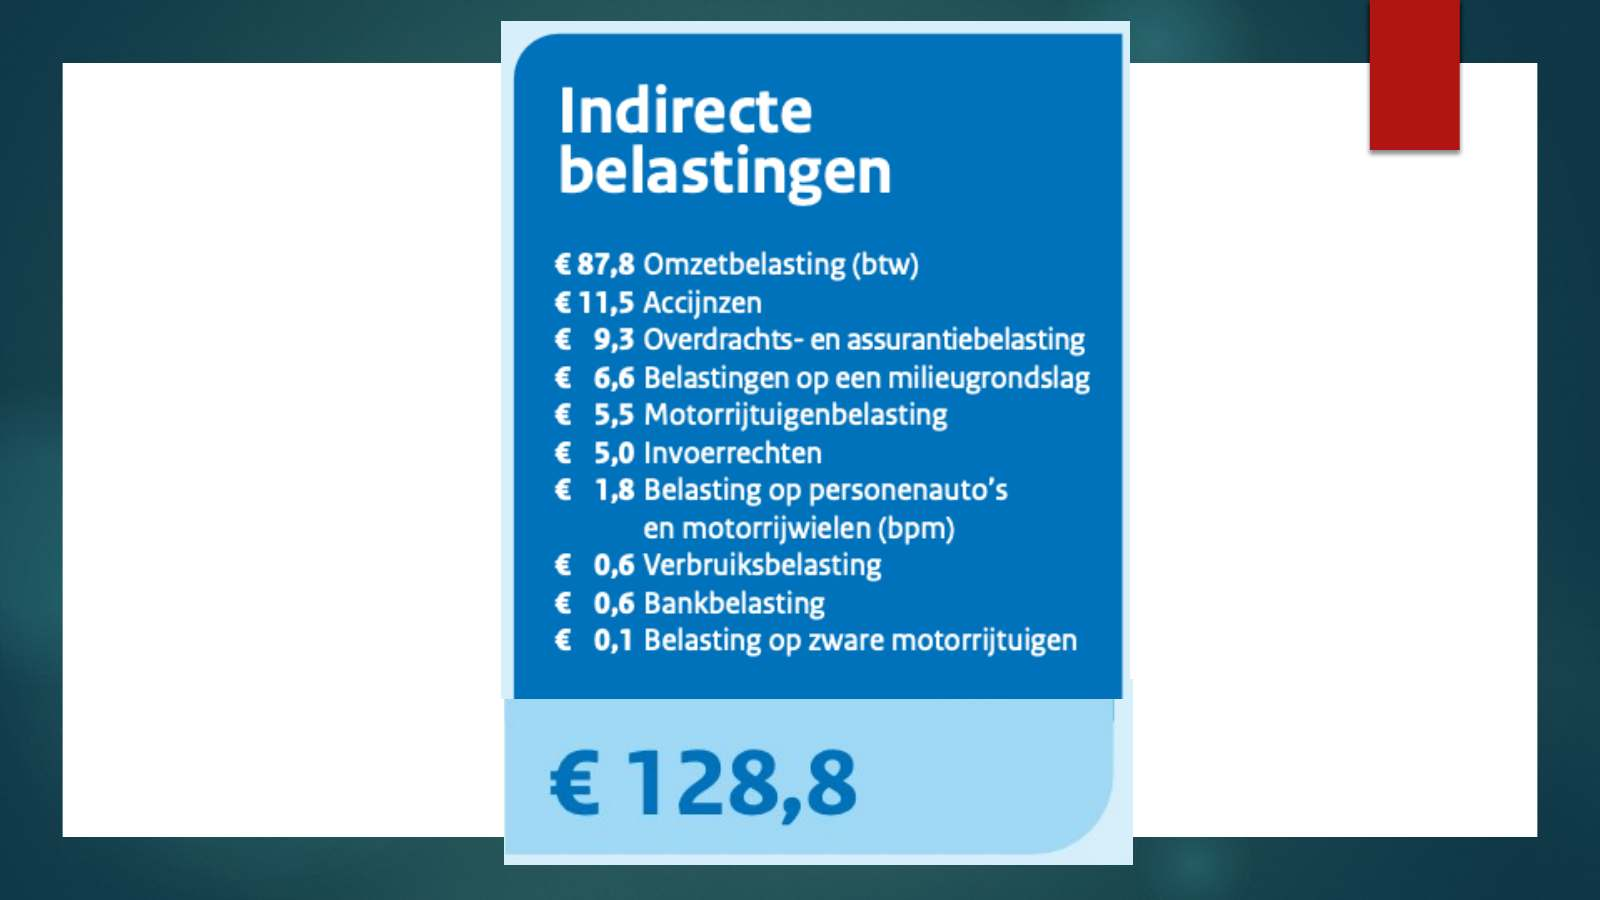
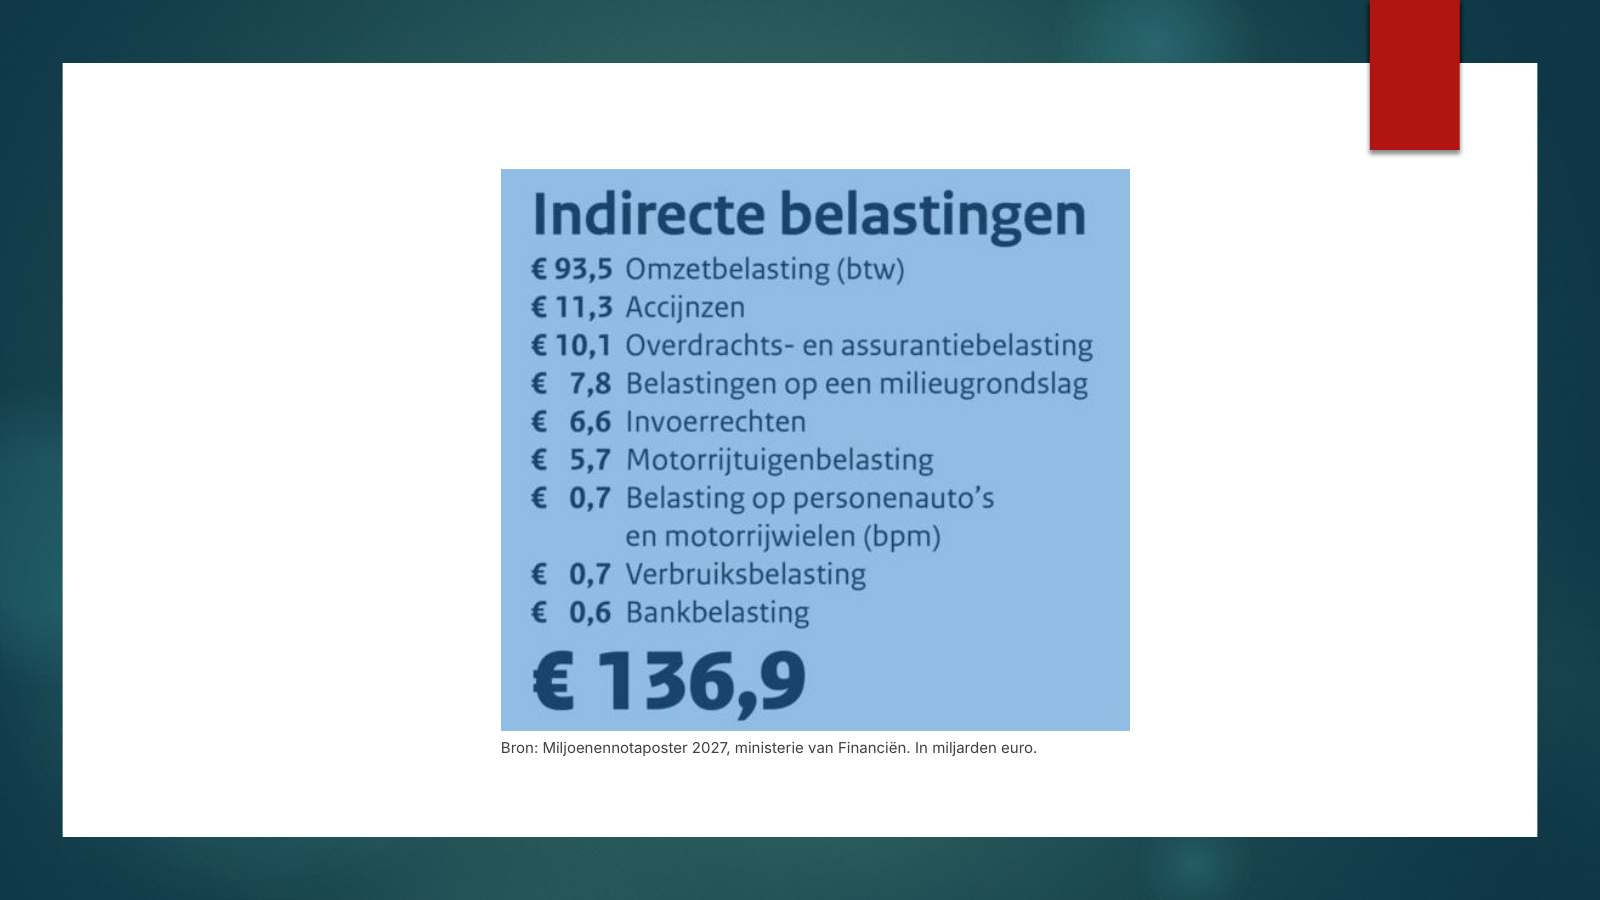
Economie 4 mavo 5.4: cijfers en beelden van de Miljoenennota 2027
Dia's van 5.4 Geld genoeg? bijgewerkt van Miljoenennota 2026 naar 2027
(poster van het ministerie van Financiën, tabel 2 en figuren 12 en 13 van
rijksfinancien.nl), met bron op elke dia. Werkwijze voor volgend jaar in
tools/miljoenennota.

Claude-Session: https://claude.ai/code/session_01E23LzxKzBVjMekX5ixHgfy

diff --git a/tools/miljoenennota/maak54.py b/tools/miljoenennota/maak54.py
@@ -1,0 +1,196 @@
+"""Werk de PowerPoint 5.4 (economie 4 mavo) bij naar de Miljoenennota 2027.
+
+python3 -I maak54.py <oud.pptx> <map met uitsneden> <nieuw.pptx>
+"""
+import re, shutil, sys, zipfile, os
+from PIL import Image
+
+SRC, CROPS, OUT = sys.argv[1:4]
+EMU_W, EMU_H = 12192000, 6858000
+
+z = zipfile.ZipFile(SRC)
+files = {n: z.read(n) for n in z.namelist()}
+
+
+def img(name):
+    return Image.open(os.path.join(CROPS, name))
+
+
+def put_media(media, cropname):
+    im = img(cropname).convert("RGB")
+    import io
+    b = io.BytesIO(); im.save(b, "PNG", optimize=True)
+    files["ppt/media/" + media] = b.getvalue()
+    return im.size
+
+
+def slide(n):
+    return files["ppt/slides/slide%d.xml" % n].decode("utf8")
+
+
+def save(n, x):
+    files["ppt/slides/slide%d.xml" % n] = x.encode("utf8")
+
+
+def set_xfrm(x, shape_id, ox, oy, cx, cy, kind="pic"):
+    """Zet positie en grootte van de vorm met cNvPr id=shape_id."""
+    pat = re.compile(r'(<p:%s>(?:(?!</p:%s>).)*?<p:cNvPr id="%d"(?:(?!</p:%s>).)*?<a:xfrm[^>]*>)<a:off x="-?\d+" y="-?\d+"/><a:ext cx="\d+" cy="\d+"/>' % (kind, kind, shape_id, kind), re.S)
+    new, k = pat.subn(lambda m: m.group(1) + '<a:off x="%d" y="%d"/><a:ext cx="%d" cy="%d"/>' % (ox, oy, cx, cy), x, count=1)
+    assert k == 1, (shape_id, kind)
+    return new
+
+
+def no_srcrect(x, shape_id):
+    pat = re.compile(r'(<p:pic>(?:(?!</p:pic>).)*?<p:cNvPr id="%d"(?:(?!</p:pic>).)*?)<a:srcRect[^/]*/>' % shape_id, re.S)
+    return pat.sub(lambda m: m.group(1) + "<a:srcRect/>", x, count=1)
+
+
+def replace_text(x, old, new):
+    a = "<a:t>%s</a:t>" % old
+    assert x.count(a) == 1, old
+    return x.replace(a, "<a:t>%s</a:t>" % new)
+
+
+_ID = [9000]
+
+
+def textbox(x, ox, oy, cx, cy, lines, size=1000, color="FFFFFF", bold=False, algn="l"):
+    _ID[0] += 1
+    ps = "".join('<a:p><a:pPr algn="%s"/><a:r><a:rPr lang="nl-NL" sz="%d" b="%d" dirty="0"><a:solidFill><a:srgbClr val="%s"/></a:solidFill></a:rPr><a:t>%s</a:t></a:r></a:p>'
+                 % (algn, size, 1 if bold else 0, color, t) for t in lines)
+    sp = ('<p:sp><p:nvSpPr><p:cNvPr id="%d" name="Bron %d"/><p:cNvSpPr txBox="1"/><p:nvPr/></p:nvSpPr>'
+          '<p:spPr><a:xfrm><a:off x="%d" y="%d"/><a:ext cx="%d" cy="%d"/></a:xfrm><a:prstGeom prst="rect"><a:avLst/></a:prstGeom><a:noFill/></p:spPr>'
+          '<p:txBody><a:bodyPr wrap="square" lIns="0" tIns="0" rIns="0" bIns="0" rtlCol="0"><a:noAutofit/></a:bodyPr><a:lstStyle/>%s</p:txBody></p:sp>'
+          % (_ID[0], _ID[0], ox, oy, cx, cy, ps))
+    i = x.rindex("</p:spTree>")
+    return x[:i] + sp + x[i:]
+
+
+BRON = "Bron: Miljoenennotaposter 2027, ministerie van Financiën (Prinsjesdag 2026). Bedragen in miljarden euro."
+
+# ---- dia 3, 4 en 5: de hele poster met kaders om inkomsten en uitgaven ----
+pw, ph = put_media("image6.png", "poster.png")
+files["ppt/media/image7.png"] = files["ppt/media/image6.png"]
+PH = EMU_H; PW = round(PH * pw / ph); PX = (EMU_W - PW) // 2
+k = PW / pw                                   # EMU per pixel van de poster
+
+
+def rect_px(x0, y0, x1, y1):
+    return round(PX + x0 * k), round(y0 * k), round((x1 - x0) * k), round((y1 - y0) * k)
+
+
+INK = rect_px(713, 315, 1059, 468)            # "Inkomsten van het Rijk 2027 ... € 481,2"
+UIT = rect_px(1335, 315, 1680, 468)           # "Uitgaven van het Rijk 2027 ... € 516,8"
+BRON_POSTER = (round(PX + 400 * k), round(1512 * k), round(1400 * k), round(40 * k))
+for n, rid, kader in ((3, 6, [(5, INK)]), (4, 6, [(5, UIT)]), (5, 4, [(5, UIT), (6, INK)])):
+    x = slide(n)
+    x = set_xfrm(x, rid, PX, 0, PW, PH)
+    for sid, r in kader:
+        x = set_xfrm(x, sid, *r, kind="sp")
+    x = textbox(x, *BRON_POSTER, [BRON], size=900)
+    save(n, x)
+x = slide(5)
+gx0, gx1 = INK[0] + INK[2], UIT[0]            # ruimte tussen de twee kaders
+x = set_xfrm(x, 7, gx0 + 40000, round(330 * k), gx1 - gx0 - 80000, round(185 * k), kind="sp")
+x = x.replace("<a:t>Tekort van </a:t>", "<a:t>Tekort:</a:t>").replace("<a:t>34,9 miljard</a:t>", "<a:t>€ 35,6 miljard</a:t>")
+assert "35,6" in x
+x = x.replace('<a:bodyPr wrap="square" rtlCol="0"><a:spAutoFit/></a:bodyPr>', '<a:bodyPr wrap="square" lIns="45720" rIns="45720" rtlCol="0"><a:normAutofit/></a:bodyPr>', 1)
+x = x.replace('<a:p><a:r><a:rPr lang="nl-NL" dirty="0"/><a:t>Tekort:', '<a:p><a:pPr algn="ctr"/><a:r><a:rPr lang="nl-NL" sz="1400" b="1" dirty="0"/><a:t>Tekort:')
+x = x.replace('<a:p><a:r><a:rPr lang="nl-NL" dirty="0"/><a:t>€ 35,6 miljard', '<a:p><a:pPr algn="ctr"/><a:r><a:rPr lang="nl-NL" sz="1400" b="1" dirty="0"/><a:t>€ 35,6 miljard')
+save(5, x)
+
+
+# ---- dia 6 t/m 9: indirecte en directe belastingen (boven: posten, onder: totaal) ----
+def box_pair(n, top_id, bot_id, x0, top_png, bot_png, top_media, bot_media, w=4787900, bron_color="404040"):
+    tw, th = put_media(top_media, top_png)
+    bw, bh = put_media(bot_media, bot_png)
+    h1 = round(w * th / tw); h2 = round(w * bh / bw)
+    y0 = (EMU_H - h1 - h2) // 2
+    x = slide(n)
+    x = set_xfrm(x, top_id, x0, y0, w, h1)
+    x = set_xfrm(x, bot_id, x0, y0 + h1, w, h2)
+    x = textbox(x, x0, y0 + h1 + h2 + 60000, w, 260000, ["Bron: Miljoenennotaposter 2027, ministerie van Financiën. In miljarden euro."], size=900, color=bron_color)
+    save(n, x)
+
+
+box_pair(6, 5, 4, 446843, "ind_top.png", "ind_bot.png", "image14.png", "image13.png")
+box_pair(7, 6, 5, 3817978, "ind_top.png", "ind_bot.png", "image14.png", "image13.png")
+box_pair(8, 2, 5, 537528, "dir_top.png", "dir_bot.png", "image17.png", "image18.png")
+box_pair(9, 3, 4, 3813163, "dir_top.png", "dir_bot.png", "image17.png", "image18.png", bron_color="FFFFFF")
+
+
+# ---- dia 10 en 11: premies ----
+def single(n, pid, media, png, ox, oy_mid, w, bron_color="FFFFFF", bron_y=None):
+    iw, ih = put_media(media, png)
+    h = round(w * ih / iw)
+    x = slide(n)
+    x = set_xfrm(x, pid, ox, oy_mid - h // 2, w, h)
+    x = textbox(x, ox, bron_y if bron_y else oy_mid + h // 2 + 60000, w, 260000, ["Bron: Miljoenennotaposter 2027, ministerie van Financiën. In miljarden euro."], size=900, color=bron_color)
+    save(n, x)
+
+
+single(10, 5, "image19.png", "werkn.png", 236329, 1304054 + 3543300 // 2, 4775200, bron_color="404040")
+single(11, 5, "image20.png", "volks.png", 520616, 2039314 + 3543300 // 2, 4775200, bron_color="404040")
+
+# ---- dia 12: alle uitgaven ----
+iw, ih = put_media("image21.png", "uitgaven.png")
+h = EMU_H; w = round(h * iw / ih)
+x = slide(12)
+x = set_xfrm(x, 5, (EMU_W - w) // 2, 0, w, h)
+x = textbox(x, (EMU_W + w) // 2 + 100000, EMU_H - 700000, EMU_W - (EMU_W + w) // 2 - 200000, 600000,
+            ["Bron: Miljoenennotaposter 2027,", "ministerie van Financiën.", "In miljarden euro."], size=900)
+save(12, x)
+
+# ---- dia 13 en 14: vergelijken 2026 (Miljoenennota 2026) met 2027 ----
+files["ppt/media/image22.png"] = z.read("ppt/media/image23.png")   # sociale zekerheid 2026
+files["ppt/media/image24.png"] = z.read("ppt/media/image25.png")   # zorg 2026
+for n, left_id, left_xy, right_id, right_x, top, media, png, labels in (
+        (13, 3, (322973, 439838), 2, 7014259, 439838, "image23.png", "sz.png", ("2024", "2026")),
+        (14, 4, (419100, 531472), 5, 6562846, 531472, "image25.png", "zorg.png", ("2024", "nu"))):
+    iw, ih = put_media(media, png)
+    lw, lh = 4247908 if n == 13 else 4171219, 4965087 if n == 13 else 4875450
+    rw = 4900000; rh = round(rw * ih / iw)
+    x = slide(n)
+    x = set_xfrm(x, left_id, left_xy[0], top, lw, lh)
+    x = set_xfrm(x, right_id, right_x, top + (lh - rh) // 2, rw, rh)
+    x = replace_text(x, labels[1], "2027")
+    x = replace_text(x, labels[0], "2026")
+    regels = ["Bron: Miljoenennota 2026 en Miljoenennotaposter 2027, ministerie van Financiën. In miljarden euro."]
+    if n == 14:
+        regels.append("Let op: in 2026 zat de zorgtoeslag in 'Medische zorg incl. zorgtoeslag'. In 2027 staat de zorgtoeslag apart (€ 7,5).")
+    x = textbox(x, 763929, EMU_H - 520000, EMU_W - 1200000, 420000, regels, size=900)
+    save(n, x)
+
+# labels onder de oude afbeelding zijn tekstvakken met de standaardkleur; laat ze staan.
+
+# ---- dia 15: het EMU-saldo sinds 1970 ----
+iw, ih = put_media("image26.png", "saldo.png")
+x = slide(15)
+w = 11359896; h = round(w * ih / iw)
+x = set_xfrm(x, 4, 405384, (EMU_H - h) // 2, w, h)
+save(15, x)
+
+# ---- dia 16: tekst en grafiek van de staatsschuld ----
+iw, ih = put_media("image27.png", "schuld.png")
+x = slide(16)
+h = 4395216; w = round(h * iw / ih)
+x = set_xfrm(x, 5, EMU_W - w - 150000, EMU_H - h - 150000, w, h)
+x = replace_text(x, "Dit jaar een tekort!", "Tekort in 2027: € 35,6 miljard")
+x = replace_text(x, "Werklozen ", "Meer geld voor defensie")
+x = replace_text(x, "hogere rentekosten  ", "hogere rentekosten: € 12,9 miljard")
+x = replace_text(x, "43,3% van het BBP", "Staatsschuld 2027: 46,9% van het bbp")
+x = textbox(x, 268225, EMU_H - 420000, 5200000, 300000, ["Bron: Miljoenennota 2027 (tabel 2 en poster), ministerie van Financiën."], size=900)
+save(16, x)
+
+# ---- dia 17: de staatsschuld ----
+iw, ih = put_media("image28.png", "schuldslide.png")
+x = slide(17)
+x = no_srcrect(x, 4)
+x = set_xfrm(x, 4, 0, 0, EMU_W, EMU_H)
+x = textbox(x, 600000, EMU_H - 520000, EMU_W - 1200000, 300000, [BRON], size=1000, color="1F3A5F")
+save(17, x)
+
+with zipfile.ZipFile(OUT, "w", zipfile.ZIP_DEFLATED) as o:
+    for n in z.namelist():
+        o.writestr(z.getinfo(n), files[n])
+print("klaar", OUT)

diff --git a/changelog.md b/changelog.md
@@ -1,3 +1,18 @@
+## 2026-11-19 · Economie 4 mavo 5.4: cijfers van de Miljoenennota 2027
+
+De dia's van 5.4 "Geld genoeg?" lieten de Miljoenennota 2026 zien (en op één dia nog 2024). Alle beelden en cijfers komen nu uit de **Miljoenennota 2027** (Prinsjesdag 15 september 2026).
+
+- **Bronnen**: de Miljoenennotaposter 2027 van het ministerie van Financiën (rijksoverheid.nl, lesmateriaal Prinsjesdag) en de Miljoenennota 2027 op rijksfinancien.nl (tabel 2 "Budgettaire kerngegevens", figuur 12 en 13). Op elke veranderde dia staat de bron.
+- **Wat is er veranderd** (dianummers van de PowerPoint): 3 en 4 de nieuwe poster met kaders om inkomsten (€ 481,2 miljard) en uitgaven (€ 516,8 miljard); 5 (was Miljoenennota 2024 met "tekort van 34,9 miljard") nu de nieuwe poster met "Tekort: € 35,6 miljard"; 6 t/m 9 indirecte belastingen (€ 136,9) en directe belastingen (€ 180,8) met alle posten; 10 en 11 premies werknemersverzekeringen (€ 48,3) en volksverzekeringen (€ 49,7); 12 alle uitgaven; 13 en 14 sociale zekerheid en zorg, 2026 naast 2027 (was 2024 naast 2026); 15 het EMU-saldo van 1970 tot 2031 (was een figuur tot 2020); 16 nieuwe tekst en de grafiek van de staatsschuld van 1970 tot 2031; 17 overheidsschuld 2027: € 599,6 miljard, 46,9% van het bbp.
+- **Tekst dia 16**: "Dit jaar een tekort!" werd "Tekort in 2027: € 35,6 miljard"; "Werklozen" werd "Meer geld voor defensie" (de werkloosheid is volgens de Miljoenennota laag, 3,9% in 2026 en 4,0% in 2027; het kabinet verhoogt de defensie-uitgaven naar 3,5% bbp); "hogere rentekosten" kreeg het bedrag € 12,9 miljard; "43,3% van het BBP" werd "Staatsschuld 2027: 46,9% van het bbp". Zorgkosten, AOW-kosten en Oekraïne bleven staan.
+- **Gecontroleerd, twee keer**: elk getal is op de poster op ware grootte gelezen en vergeleken met de tekst van de samenvatting van de Miljoenennota en tabel 2 (inkomsten 481,2, uitgaven 516,8, schuld 599,6 en 46,9% komen in alle drie overeen). Tekort = 516,8 − 481,2 = 35,6, gelijk aan het EMU-saldo van de centrale overheid in tabel 2. De posten zijn opgeteld: de totalen wijken door afronding 0,1 tot 0,2 af (bijvoorbeeld sociale zekerheid: posten 132,2, totaal 132,4). Dat staat ook op de poster.
+- **Fout in de oude dia**: op de dia van 2024 stond "tekort van 34,9 miljard", maar 433,6 − 402,9 = 30,7. Die dia is vervangen.
+- **Let op bij zorg**: in 2026 zat de zorgtoeslag in "Medische zorg incl. zorgtoeslag" (€ 73,6). In 2027 staat de zorgtoeslag apart (€ 7,5). Dat staat als opmerking op de dia.
+- **Niet veranderd**: dia 1, 2, de dia over de gemeente (tabel van Venlo, de som klopt: 369,3 miljoen), de link en de herhalingsvragen. De oefenstof en toetsen van 5.4 gebruiken verzonnen bedragen in eigen situaties; daar stonden geen echte begrotingscijfers in.
+- **Hoe**: `tools/miljoenennota/maak54.py` (nieuw) maakt de nieuwe PowerPoint uit de oude en de uitsneden; daarna `tools/dias/lo.py ... weg=6,8,18,20` voor de dia's op de site (16 dia's, klikstappen gelijk gebleven). De werkwijze voor volgend jaar staat in `tools/miljoenennota/README.md`. De nieuwe PowerPoint voor de les staat in de projectmap en naast het origineel op de OneDrive; het origineel is niet aangeraakt.
+- **Te controleren door de docent**: de nieuwe PowerPoint in PowerPoint zelf openen (gemaakt en bekeken met LibreOffice); dia 6 en 8 hebben nog de foto van Rutte bij "de overheid", die is niet meer de minister-president.
+- **Getest**: vragencheck, linkcheck en a11ycheck; de paragraaf 5.4 in de browser op 375 en 820 px, licht en donker. **Niet getest**: op een echte iPad.
+
 ## 2026-11-19 · Economie 2 mavo: dia's met klikstappen bij H3, H4 en H5
 
 De twaalf PowerPoints van H3, H4 en H5 staan nu als klikbare dia's in de leeromgeving, met de klikstappen uit de PowerPoint. Hiermee is het punt "nog niet af" van 18 november opgelost voor deze drie hoofdstukken.

diff --git a/tools/miljoenennota/README.md b/tools/miljoenennota/README.md
@@ -1,0 +1,18 @@
+# Elk jaar: de cijfers van de Miljoenennota in 5.4 (economie 4 mavo)
+
+Paragraaf 5.4 "Geld genoeg?" van economie 4 mavo laat de inkomsten en uitgaven van het Rijk zien uit de nieuwste Miljoenennota. Na elke Prinsjesdag (derde dinsdag van september) moeten die beelden en cijfers opnieuw. Zo is het in november 2026 gedaan (Miljoenennota 2027).
+
+## Bronnen (allemaal van het ministerie van Financiën, hergebruik toegestaan)
+
+1. **Miljoenennotaposter**: rijksoverheid.nl › Prinsjesdag › Lesmateriaal › Miljoenennotaposter. Een JPG van 5000 × 3333 px met alle inkomsten en uitgaven, per post. Dit is het plaatje dat in de PowerPoint stond.
+2. **Miljoenennota** op rijksfinancien.nl/miljoenennota/<jaar>: tabel "Budgettaire kerngegevens" (inkomsten, uitgaven, EMU-saldo, EMU-schuld, bbp) en de figuren "Ontwikkeling EMU-saldo" en "Ontwikkeling EMU-schuld".
+3. **Samenvatting Miljoenennota** (pdf op rijksoverheid.nl): handig om de getallen van de poster als tekst te controleren.
+
+## Werkwijze
+
+1. Lees de PowerPoint van de docent (OneDrive: `Economie jaar 4 hoofdstuk 5.4 geld genoeg (nearpod).pptx`). Alleen lezen.
+2. Haal de poster binnen. De cloud mocht rijksoverheid.nl niet bereiken; daarom is de poster in de ingebouwde browser op de Mac geopend, in een canvas getekend en per stuk van 800 × 600 px vastgelegd (inzoomen, schaal 1, dan is het een PNG). Uitsneden op ware grootte voor de vakken met kleine letters (indirecte en directe belastingen, sociale zekerheid, zorg, overheidsschuld), de hele poster op 2400 px.
+3. Zet de uitsneden in één map met deze namen: `poster.png`, `ind_top.png`, `ind_bot.png`, `dir_top.png`, `dir_bot.png`, `werkn.png`, `volks.png`, `uitgaven.png`, `sz.png`, `zorg.png`, `saldo.png`, `schuld.png`, `schuldslide.png`.
+4. `python3 -I tools/miljoenennota/maak54.py <oud.pptx> <map> <nieuw.pptx>` vervangt de beelden, zet ze in de goede verhouding, verschuift de rode kaders, past de teksten aan en zet op elke dia een bronregel. **De kaders (`INK`, `UIT`) en de teksten op dia 5, 13, 14 en 16 horen bij 2027**: pas ze aan voor een nieuw jaar.
+5. Dia's voor de site: `python3 -I tools/dias/lo.py <nieuw.pptx> economie/j4h5/slides/5.4 weg=6,8,18,20` (dia 6 en 8 hebben een foto van een politicus, 18 is een link, 20 zijn de herhalingsvragen).
+6. Controleer elk getal twee keer: lees de poster op ware grootte, leg hem naast de tekst van de samenvatting en de tabel met kerngegevens, en tel de posten op (afronding kan 0,1 tot 0,2 schelen; dat staat ook op de poster).
